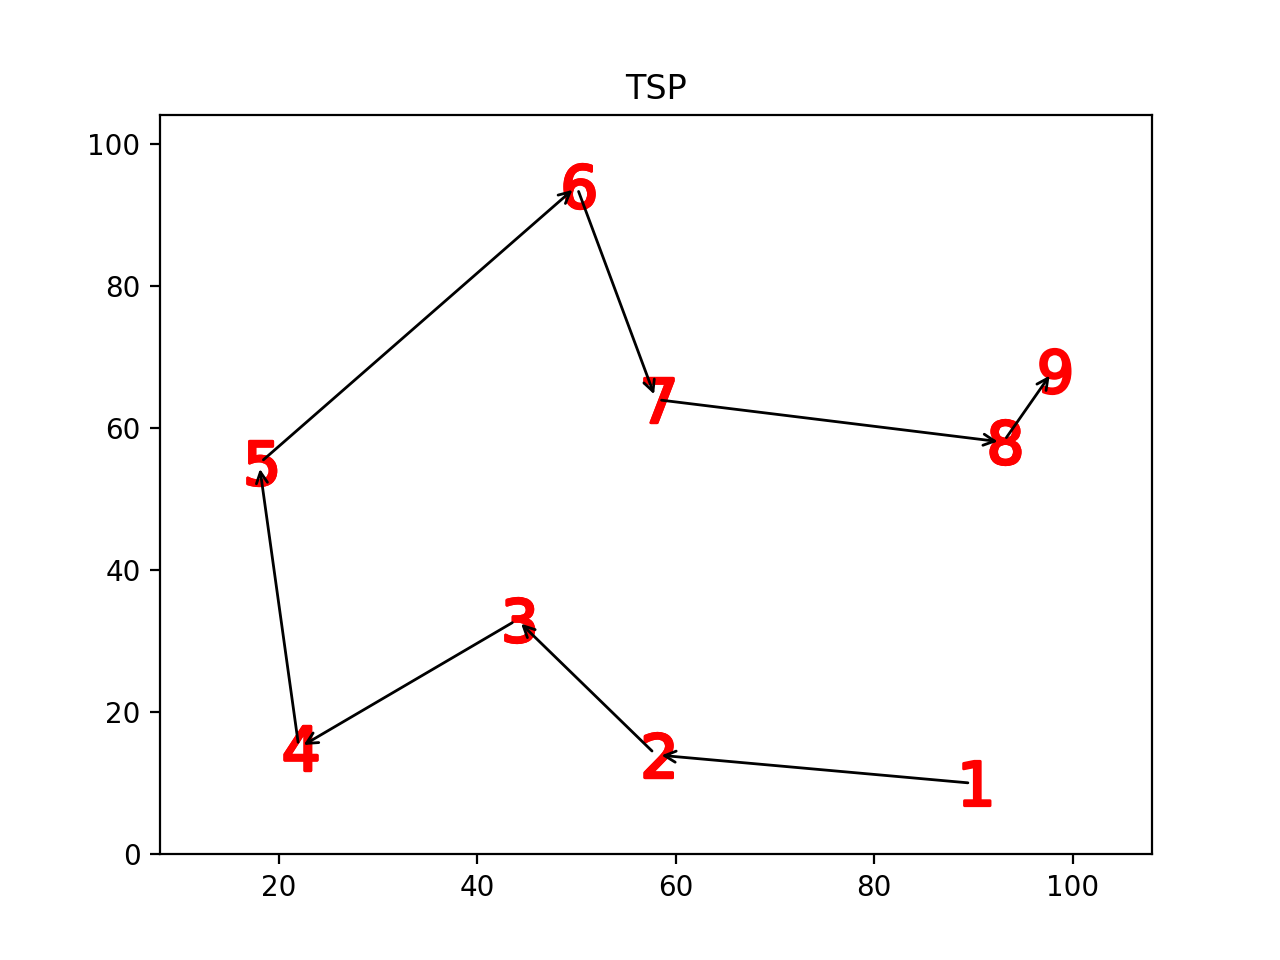
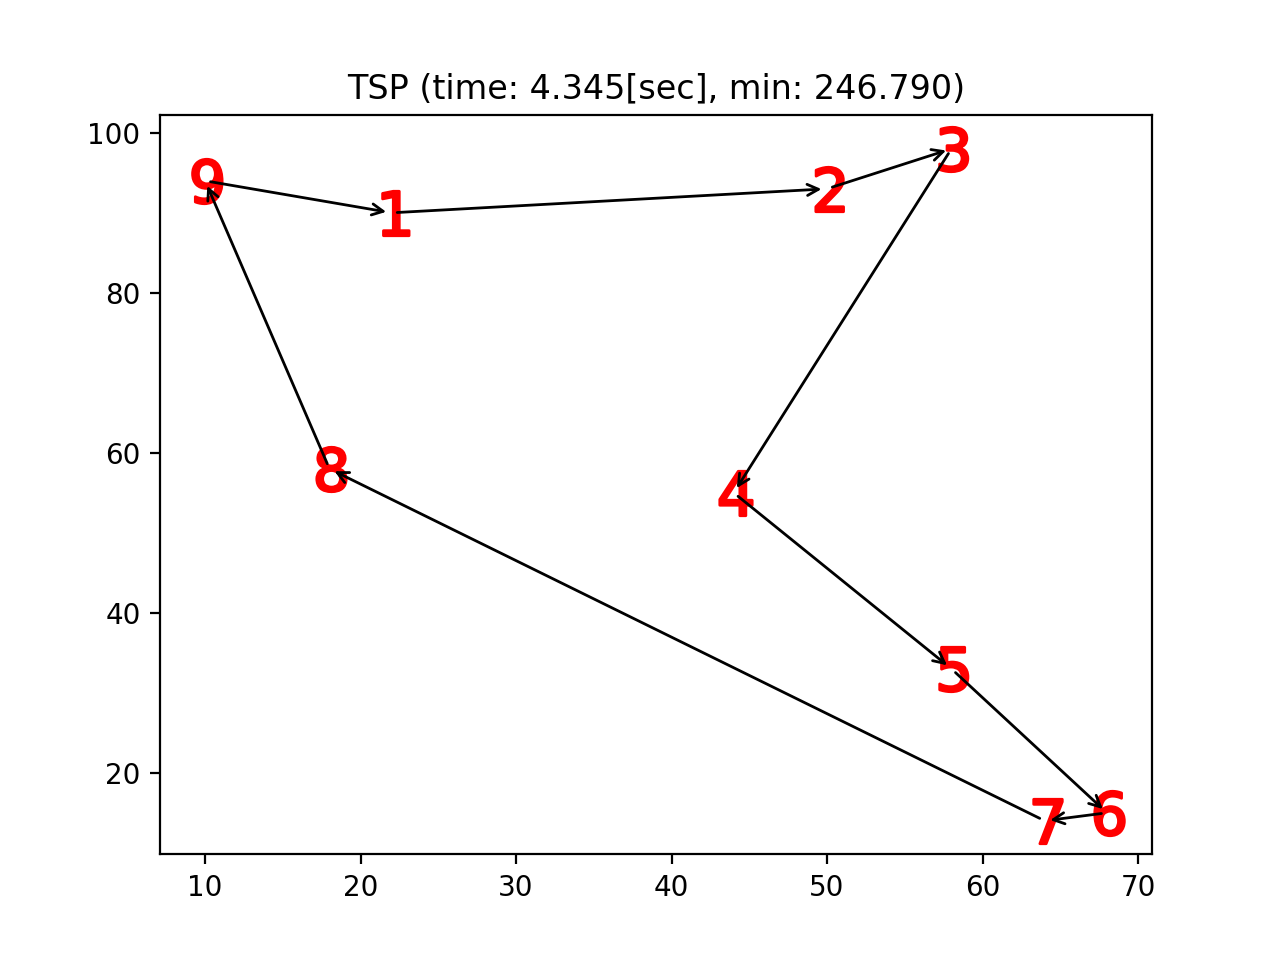
画像差し替え & 都市の番号の重複を修正

diff --git a/tsp.py b/tsp.py
@@ -49,8 +49,8 @@ if __name__ == "__main__":
     ax = fig.add_subplot(111)
     for i in range(n):
         p1, p2 = min_route[i%n], min_route[(i+1)%n]
-        ax.plot(*p1, marker="$%d$"%i, markersize=16, color="red")
-        ax.plot(*p2, marker="$%d$"%(i+1), markersize=16, color="red")
+        ax.plot(*p1, marker="$%d$"%(i+1), markersize=16, color="red")
+        ax.plot(*p2, markersize=16, color="red")
         ax.annotate("", xy=p2, xytext=p1, arrowprops={"arrowstyle": "->"})
     plt.title("TSP (time: %.3f[sec], min: %.3f)" % (dtime, dist))
     plt.show()
